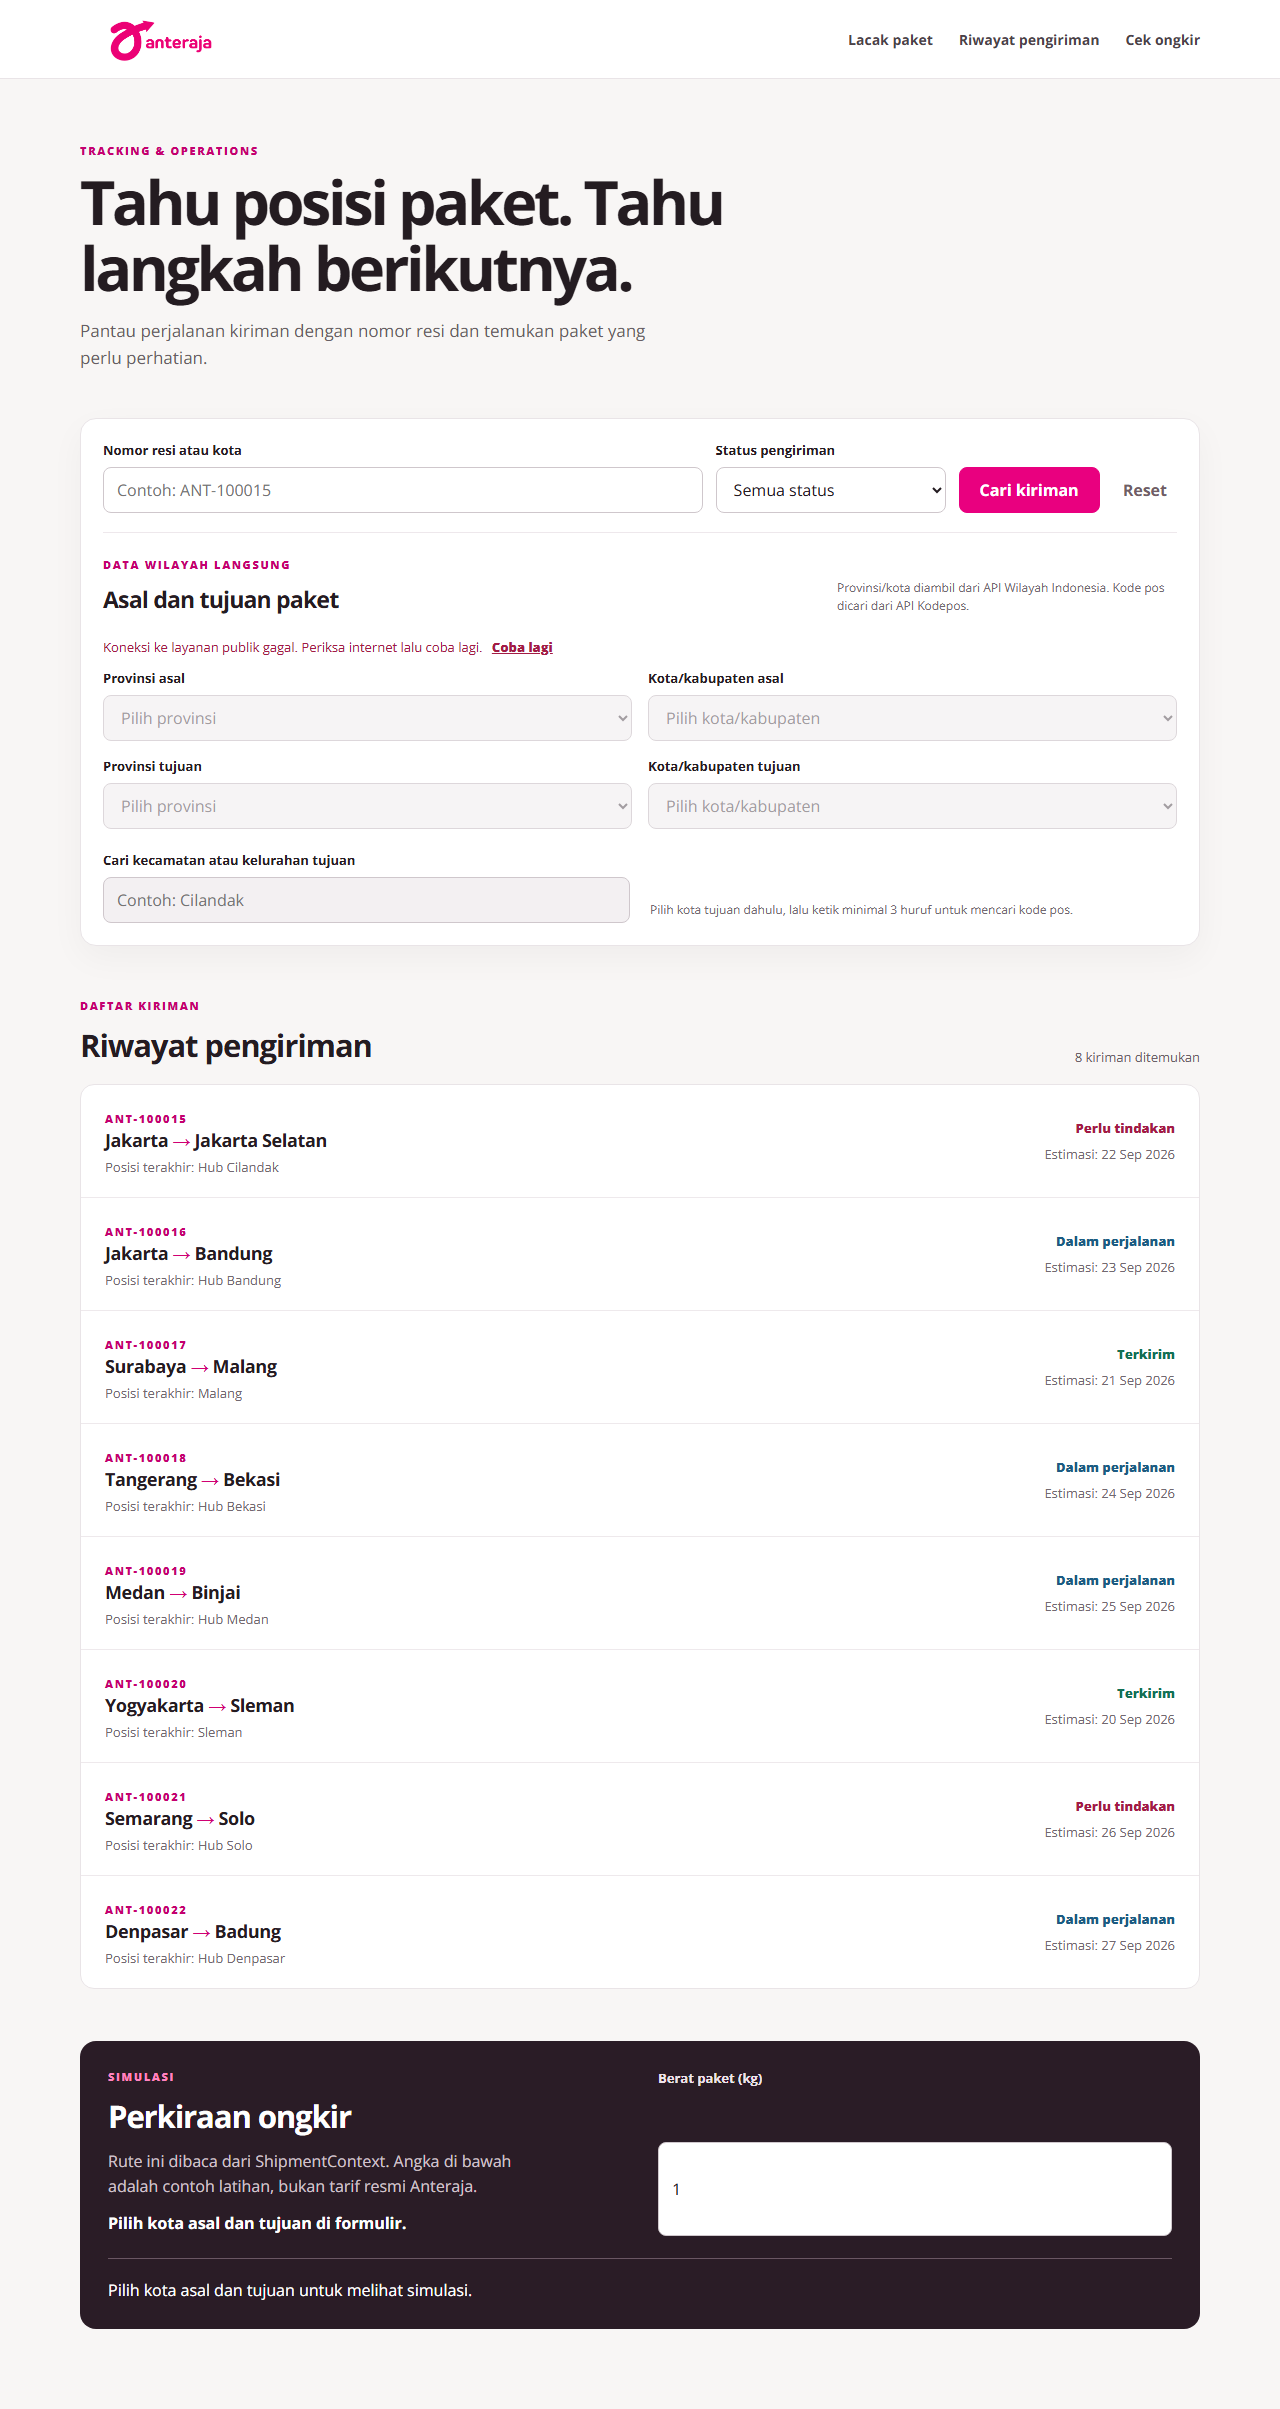
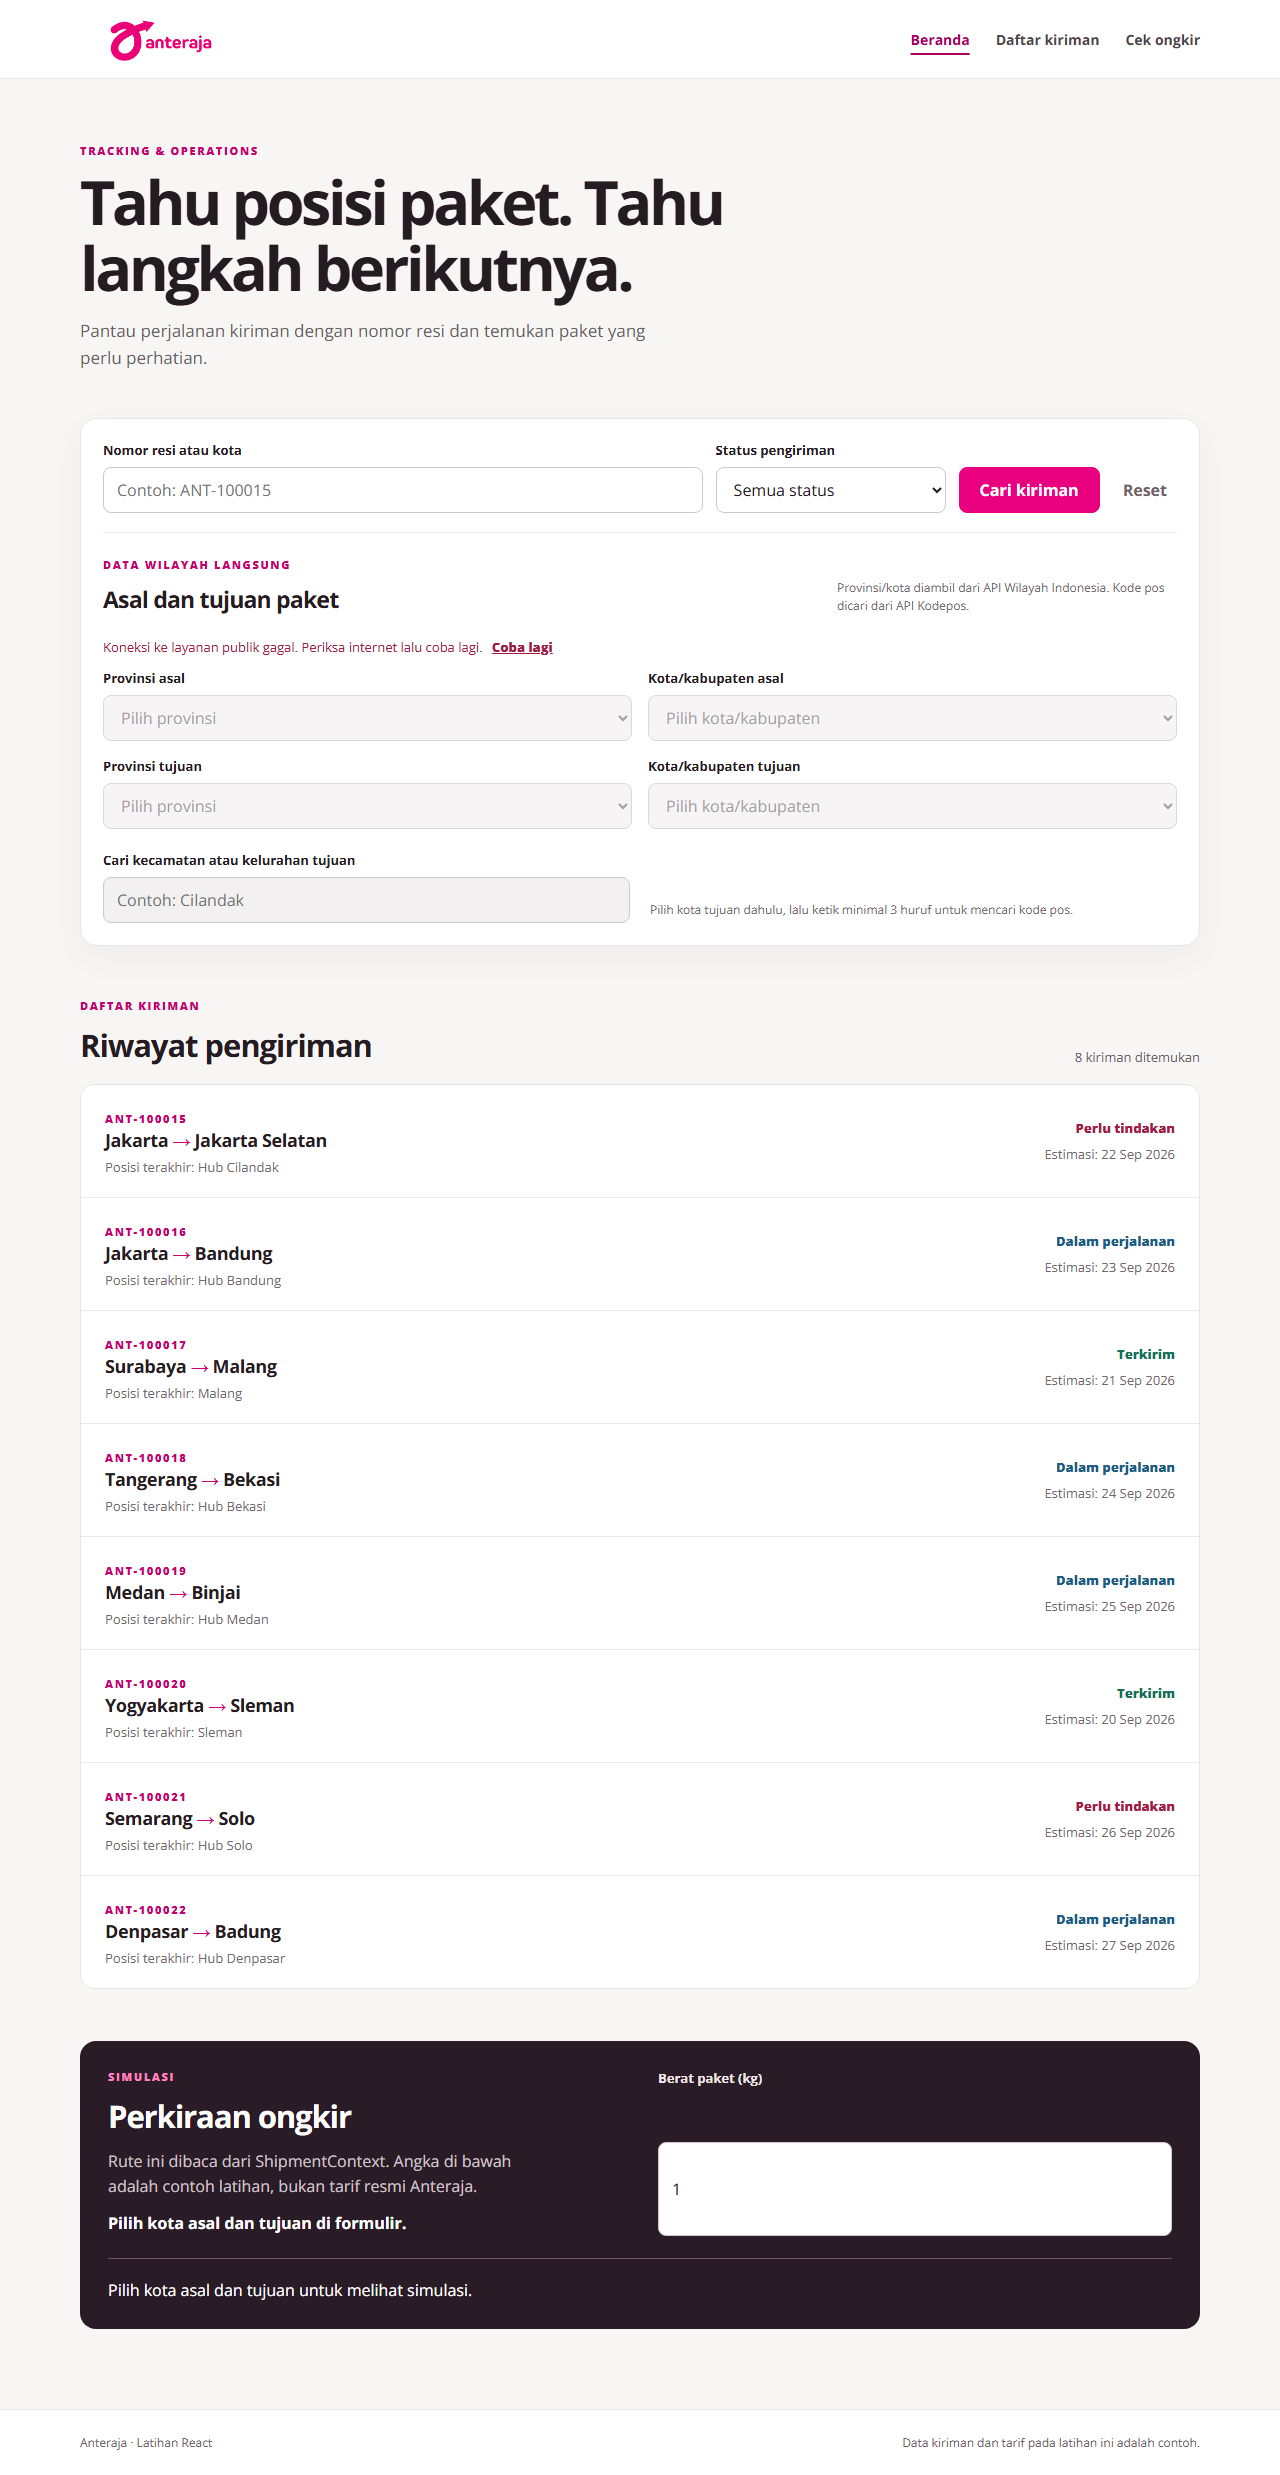
Document SPA route map and capture navigation evidence

diff --git a/day9-react/README.md b/day9-react/README.md
@@ -1,4 +1,4 @@
-# Latihan React + Vite — Day 9 dan Day 10
+# Latihan React + Vite — Day 9 sampai Day 11
 
 Folder `day9-react/` adalah latihan komponen React pada branch `8-react`. Aplikasi utama di root repository tetap memakai Next.js dan Supabase. Latihan ini tidak mengganti autentikasi atau database aplikasi utama. Daftar delapan kiriman pada `src/data/shipments.ts` adalah data contoh; pilihan wilayah dan kode pos Day 10 berasal dari dua API publik yang terpisah.
 
@@ -18,25 +18,41 @@ npm run typecheck
 npm run build
 ```
 
-Untuk uji browser otomatis, jalankan `node ../node_modules/vite/bin/vite.js preview --host 127.0.0.1 --port 4173` pada terminal pertama, lalu `npm run test:day10` pada terminal kedua. Uji ini memerlukan internet karena memakai kedua API publik sungguhan. Tangkapan layar akan tersimpan di `evidence/`.
+Untuk uji browser otomatis, jalankan `node ../node_modules/vite/bin/vite.js preview --host 127.0.0.1 --port 4173` pada terminal pertama. Pada terminal kedua jalankan `npm run test:day10` (memakai API publik sungguhan) dan `npm run test:day11` (navigasi SPA dan responsivitas). Tangkapan layar akan tersimpan di `evidence/`.
 
 ## Pohon komponen dan aliran data
 
 ```text
 main.tsx
-└── ShipmentProvider (Context: wilayah asal, tujuan, kode pos)
-    └── App (state pencarian resi dan filter status; dataset contoh)
-        ├── TrackingHeader
-        ├── ShipmentForm (props dari App + Context)
-        │   └── LocationFields (Context + useLocationData + usePostalSearch)
-        ├── ShipmentList (props daftar hasil)
-        │   └── ShipmentCard × jumlah hasil (props satu kiriman)
-        └── ShippingCalculator (Context + state berat lokal)
+└── BrowserRouter
+    └── ShipmentProvider (Context: kiriman, wilayah, kode pos)
+        └── App (Routes)
+            └── MainLayout (TrackingHeader + Outlet + footer)
+                ├── HomePage (ShipmentForm, ShipmentList, ShippingCalculator)
+                ├── ShipmentListPage (ShipmentForm, ShipmentList)
+                │   └── ShipmentCard × hasil filter
+                ├── ShipmentDetailPage (useParams + Context)
+                ├── ShippingPage (LocationFields + ShippingCalculator)
+                └── NotFoundPage
 ```
 
-`App` memiliki `draft`, `query`, dan `status` melalui `useState`. `ShipmentForm` menerima nilai dan callback melalui props. Input resi adalah controlled component: `value={draft}` dan `onChange` mengubah state induk. `App` meneruskan hasil filter ke `ShipmentList`; komponen ini merender `ShipmentCard` dengan `.map()` dan `key={shipment.id}`. Bila daftar kosong, ia menampilkan empty state. Props tidak dimutasi.
+`HomePage` dan `ShipmentListPage` mengelola input pencarian dan filter lewat `useState`. `ShipmentForm` menerima nilai dan callback melalui props. Input resi adalah controlled component: `value={draft}` dan `onChange` mengubah state induk. `ShipmentListPage` meneruskan hasil filter ke `ShipmentList`; komponen ini merender `ShipmentCard` dengan `.map()` dan `key={shipment.id}`. Bila daftar kosong, ia menampilkan empty state. Props tidak dimutasi.
 
-Day 10 menambah `ShipmentProvider` melalui `createContext` dan `useContext`. `LocationFields` (di dalam form) menyimpan provinsi/kota asal, provinsi/kota tujuan, dan kode pos terpilih lewat `useShipmentContext`. `ShippingCalculator` membaca pilihan rute yang sama tanpa props berantai. Berat tetap state lokal kalkulator. Mengganti provinsi membersihkan kota terkait; mengganti kota tujuan juga membersihkan kode pos lama. `ShipmentContext.displayName = 'ShipmentContext'` memudahkan identifikasi Provider di React DevTools.
+Day 10 menambah `ShipmentProvider` melalui `createContext` dan `useContext`. `LocationFields` (di dalam form) menyimpan provinsi/kota asal, provinsi/kota tujuan, dan kode pos terpilih lewat `useShipmentContext`. `ShippingCalculator` membaca pilihan rute yang sama tanpa props berantai. Berat tetap state lokal kalkulator. Mengganti provinsi membersihkan kota terkait; mengganti kota tujuan juga membersihkan kode pos lama. Day 11 menaruh dataset contoh dalam Context yang sama supaya halaman detail dapat mengambil kiriman sesuai URL. `ShipmentContext.displayName = 'ShipmentContext'` memudahkan identifikasi Provider di React DevTools.
+
+## Route Map SPA (Day 11)
+
+| URL | Halaman | Perilaku |
+| --- | --- | --- |
+| `/` | `HomePage` | Form resi, pilihan wilayah, daftar contoh, dan simulasi ongkir. Setelah **Cari kiriman**, `useNavigate` membuka `/shipments` dengan filter pada query URL. |
+| `/shipments` | `ShipmentListPage` | Daftar dapat dicari dan difilter; pilihan disimpan pada `?q=...&status=...`. Klik kartu membuka detail. |
+| `/shipments/:id` | `ShipmentDetailPage` | `useParams` membaca ID/nomor resi dari URL, lalu mencari kiriman di `ShipmentContext`. ID tidak dikenal menampilkan fallback yang aman. |
+| `/ongkir` | `ShippingPage` | Form wilayah dan kalkulator membaca rute dari Context yang sama. |
+| `*` | `NotFoundPage` | Pesan 404 dengan tautan kembali ke beranda. |
+
+`main.tsx` memasang satu `BrowserRouter`. `App.tsx` mendefinisikan `Routes` dan `Route` di bawah `MainLayout`. Layout merender `TrackingHeader`, `<Outlet />`, dan footer. `Link` pada logo/kartu dan `NavLink` pada menu mengganti halaman tanpa full-page reload; `aria-current="page"` menandai menu aktif. Header/footer tetap terpasang saat isi Outlet berubah. Navigasi pencarian memakai `useNavigate`, bukan `window.location`.
+
+URL `/shipments/ANT-100015` dapat dibuka langsung atau di-refresh pada server Vite karena Vite menyediakan SPA fallback. Bila men-deploy folder `dist/` ke hosting statis lain, atur rewrite semua URL aplikasi ke `index.html`; tanpa rewrite, direct URL bisa menghasilkan 404 dari server sebelum React berjalan.
 
 ## API publik dan custom hooks
 
@@ -53,11 +69,15 @@ Kalkulator membaca rute bersama dan memperbarui angka contoh saat berat atau wil
 
 ## Coba saat presentasi
 
-1. Cari resi `ANT-100015`, lalu coba `ANT-999999` untuk melihat empty state; gunakan **Reset**.
-2. Pilih provinsi asal **Daerah Khusus Ibukota Jakarta**, kota **Jakarta Pusat**; pilih tujuan provinsi yang sama, kota **Jakarta Selatan**.
-3. Ketik **Cilandak** pada pencarian kode pos, lalu pilih **12430 — Cilandak Barat**. Pilihan ini langsung muncul pada kalkulator tanpa dikirim sebagai props.
-4. Isi berat `2.5` kg. Nilai simulasi untuk rute dalam satu provinsi adalah `Rp 27.000`.
-5. Pada React DevTools, buka tab **Components**, pilih **ShipmentProvider**, lalu lihat nilai Context berubah saat wilayah diganti.
-6. Untuk melihat penanganan error, putuskan jaringan di tab Network, muat ulang, lalu sambungkan kembali dan klik **Coba lagi**.
+1. Buka beranda dan cari resi `ANT-100015`. Aplikasi berpindah ke `/shipments?q=ANT-100015` tanpa reload. Klik kiriman untuk membuka `/shipments/ANT-100015`.
+2. Buka `/shipments/TIDAK-ADA` langsung untuk melihat fallback resi tidak dikenal; buka `/alamat-salah` untuk halaman 404.
+3. Coba `ANT-999999` di daftar untuk melihat empty state; gunakan **Reset**.
+4. Di beranda atau `/ongkir`, pilih provinsi asal **Daerah Khusus Ibukota Jakarta**, kota **Jakarta Pusat**; pilih tujuan provinsi yang sama, kota **Jakarta Selatan**.
+5. Ketik **Cilandak** pada pencarian kode pos, lalu pilih **12430 — Cilandak Barat**. Pilihan ini langsung muncul pada kalkulator tanpa dikirim sebagai props.
+6. Isi berat `2.5` kg. Nilai simulasi untuk rute dalam satu provinsi adalah `Rp 27.000`.
+7. Pada React DevTools, buka tab **Components**, pilih **ShipmentProvider**, lalu lihat nilai Context berubah saat wilayah diganti.
+8. Untuk melihat penanganan error, putuskan jaringan di tab Network, muat ulang, lalu sambungkan kembali dan klik **Coba lagi**.
 
 `tests/day10-browser.mjs` memeriksa kedua API nyata, perubahan Context lintas komponen, loading, error/retry, pembatalan respons lama, hasil kalkulator, tampilan mobile tanpa overflow horizontal, dan error JavaScript di browser. Screenshot otomatis ada di `evidence/day10-*.png`.
+
+`tests/day11-browser.mjs` memeriksa `Link`, `NavLink`, `useNavigate`, header/footer yang tidak diganti saat pindah rute, URL detail langsung dan setelah refresh, ID tak dikenal, wildcard 404, serta semua halaman pada lebar 375, 768, dan 1440 px. Uji menghitung event `DOMContentLoaded` agar navigasi SPA tidak keliru dianggap sebagai reload; ia juga memeriksa warning/error browser. Screenshot ada di `evidence/day11-*.png`.

diff --git a/README.md b/README.md
@@ -1,6 +1,6 @@
 # Anteraja Tracking & Operations
 
-Latihan React + Vite Day 9–10 ada di [day9-react/README.md](day9-react/README.md). Daftar kiriman memakai data contoh, sedangkan pilihan wilayah dan kode pos Day 10 memakai dua API publik. Aplikasi utama di root tetap memakai Next.js dan Supabase.
+Latihan React + Vite Day 9–11 ada di [day9-react/README.md](day9-react/README.md). Daftar kiriman memakai data contoh, pilihan wilayah/kode pos Day 10 memakai dua API publik, dan Day 11 menambahkan routing SPA. Aplikasi utama di root tetap memakai Next.js dan Supabase.
 
 Capstone ini mengubah tracking dari daftar status pasif menjadi alur yang memberi kepastian dan jalan keluar. Penerima dapat memahami risiko, memperbarui petunjuk alamat, mengatur jadwal atau safe drop, membuat tiket CS berkonteks, dan memilih notifikasi. Seller mendapat control tower; Finance/Rekonsiliasi FRD-06 tetap tersedia sebagai modul pendukung yang menghubungkan resi, COD, settlement, dan mutasi bank.
 
